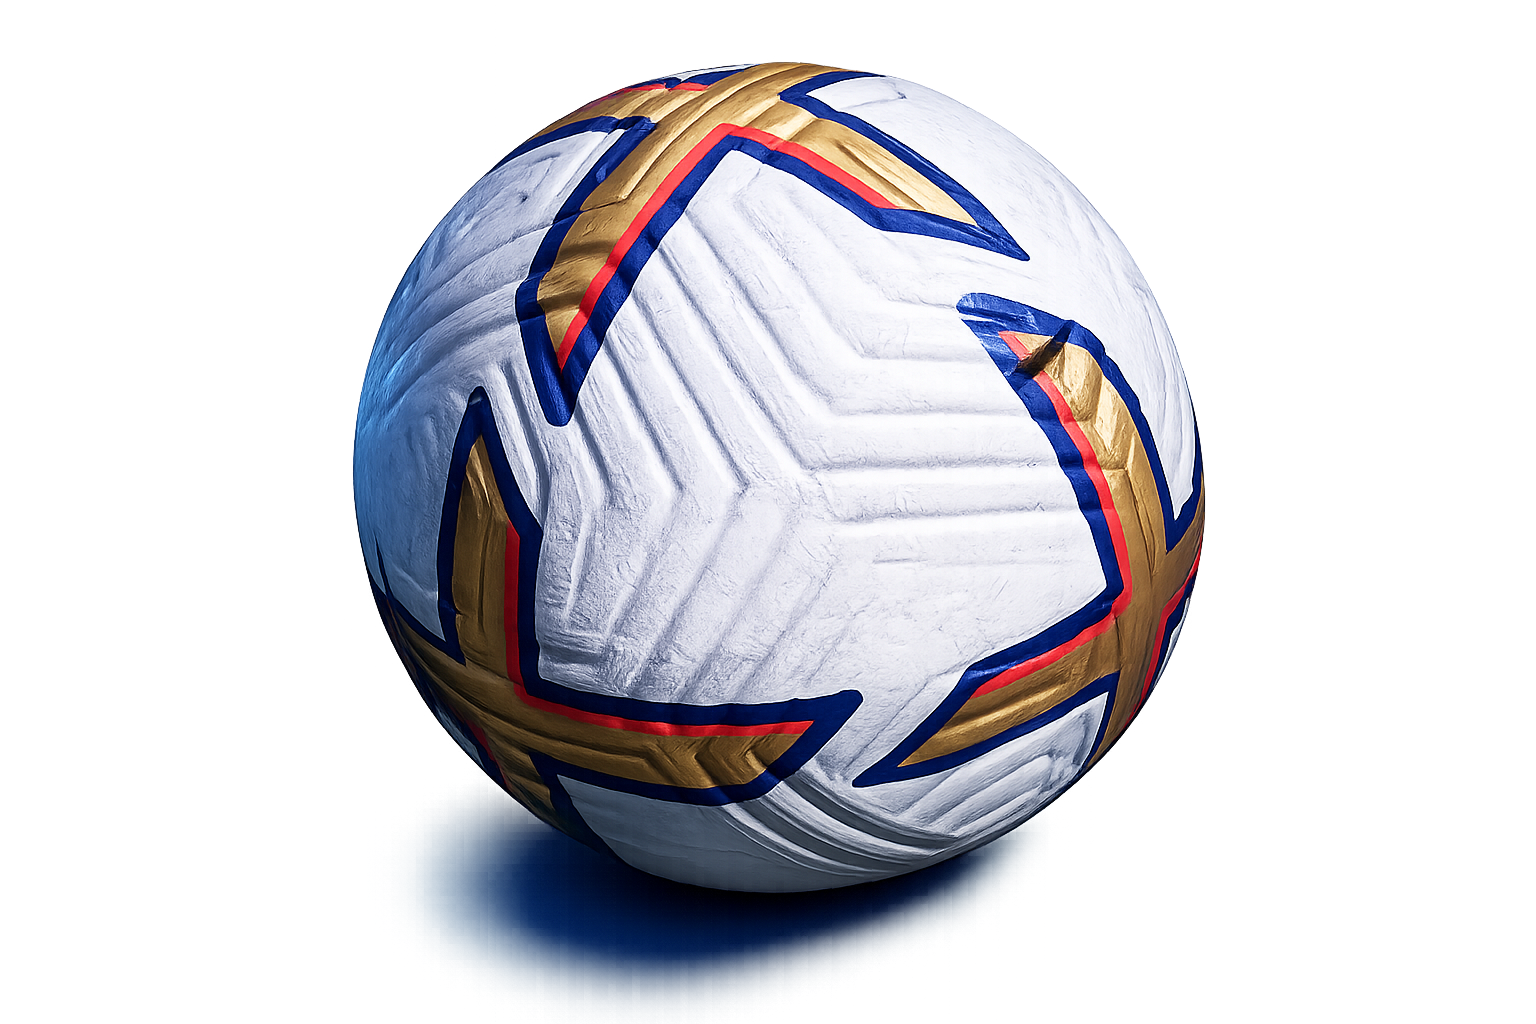
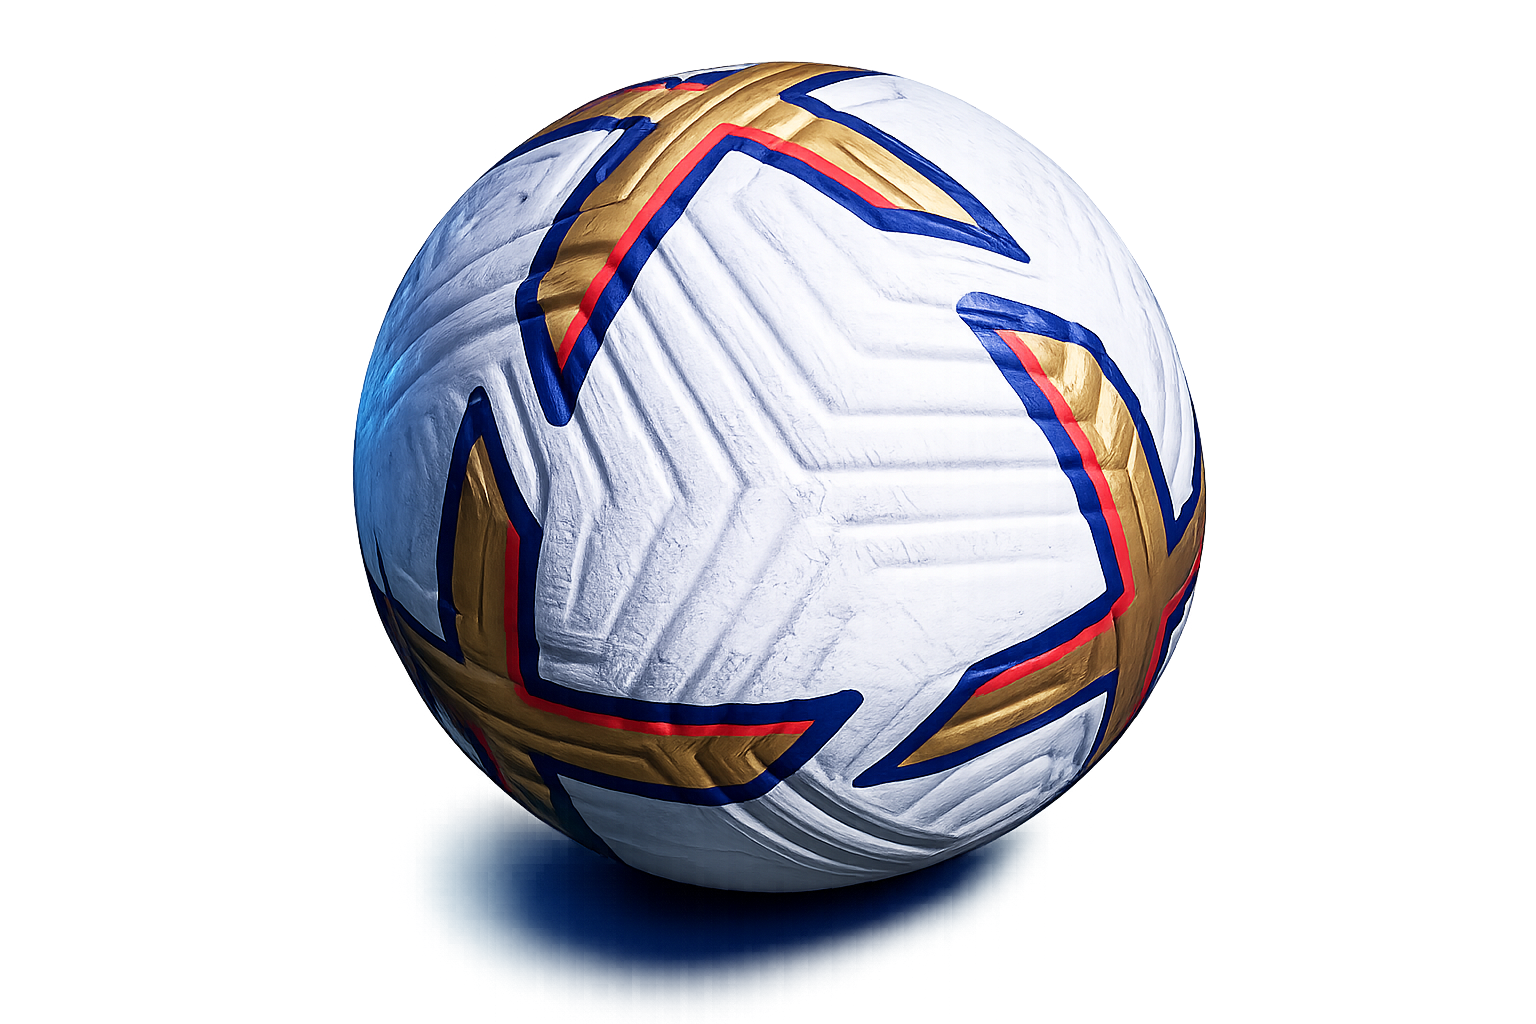
feat: new ball image + improved color grading
- brightness(0.72) — убирает студийную белизну под тёмный фон
- contrast(1.18) — сохраняет объём панелей
- saturate(1.4) — усиливает золото и синие швы
- hue-rotate(-8deg) — лёгкий сдвиг к cyan теме сайта
- cyan ambient overlay (top-left) 0.18 opacity
- purple rim light (right) 0.12 opacity
- глубокая виньетка снизу 0.55

diff --git a/src/pages/Landing.jsx b/src/pages/Landing.jsx
@@ -110,19 +110,28 @@ function CosmicOrb() {
             style={{
               width: '100%', height: '100%',
               objectFit: 'cover', display: 'block',
-              // Тёмная адаптация: приглушаем яркость, усиливаем насыщенность
-              filter: 'brightness(0.78) contrast(1.12) saturate(1.25)',
+              // Адаптация под тёмную космо-тему:
+              // brightness — убираем студийную белизну
+              // contrast  — сохраняем объём и детали панелей
+              // saturate  — золото и синие швы становятся ярче
+              // hue-rotate — лёгкий сдвиг в сторону cyan сайта
+              filter: 'brightness(0.72) contrast(1.18) saturate(1.4) hue-rotate(-8deg)',
             }}
           />
-          {/* Cyan ambient light overlay (top-left) */}
+          {/* Cyan ambient light — имитирует основной источник света сайта */}
           <div style={{
             position: 'absolute', inset: 0, borderRadius: '50%', pointerEvents: 'none',
-            background: 'radial-gradient(circle at 32% 28%, rgba(0,207,255,0.13) 0%, transparent 55%)',
+            background: 'radial-gradient(circle at 30% 25%, rgba(0,207,255,0.18) 0%, transparent 52%)',
           }} />
-          {/* Bottom dark vignette */}
+          {/* Purple rim light справа */}
           <div style={{
             position: 'absolute', inset: 0, borderRadius: '50%', pointerEvents: 'none',
-            background: 'radial-gradient(circle at 50% 80%, rgba(1,8,30,0.45) 0%, transparent 60%)',
+            background: 'radial-gradient(circle at 78% 40%, rgba(123,94,167,0.12) 0%, transparent 45%)',
+          }} />
+          {/* Тёмная виньетка снизу — приземляет */}
+          <div style={{
+            position: 'absolute', inset: 0, borderRadius: '50%', pointerEvents: 'none',
+            background: 'radial-gradient(circle at 50% 85%, rgba(1,6,24,0.55) 0%, transparent 55%)',
           }} />
         </div>
       </div>
